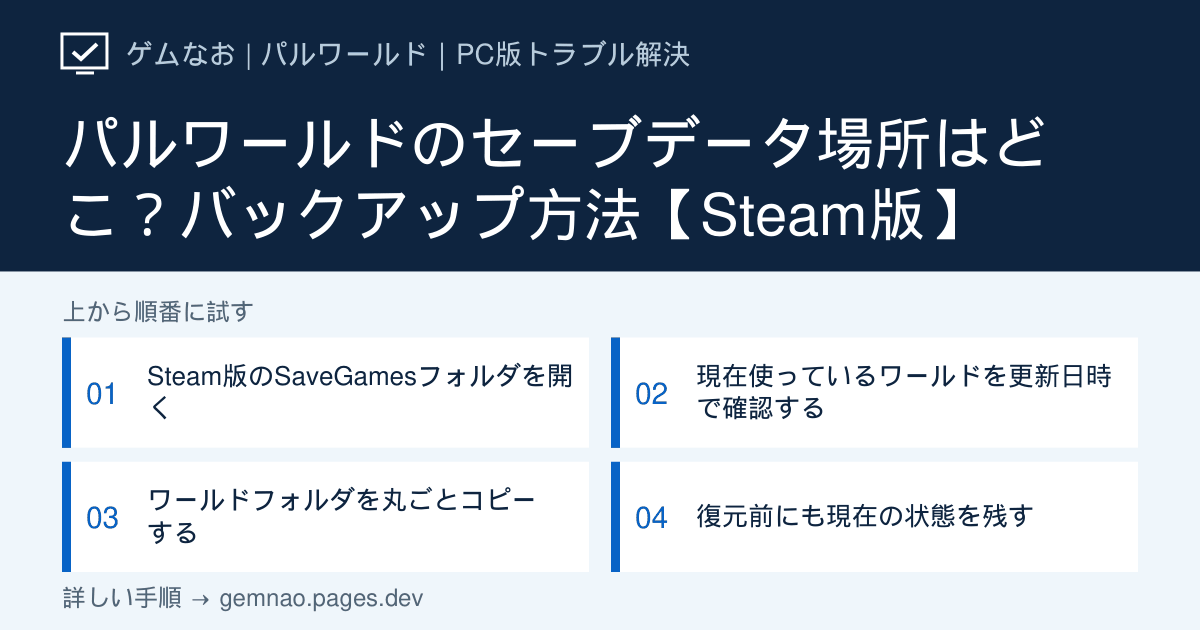
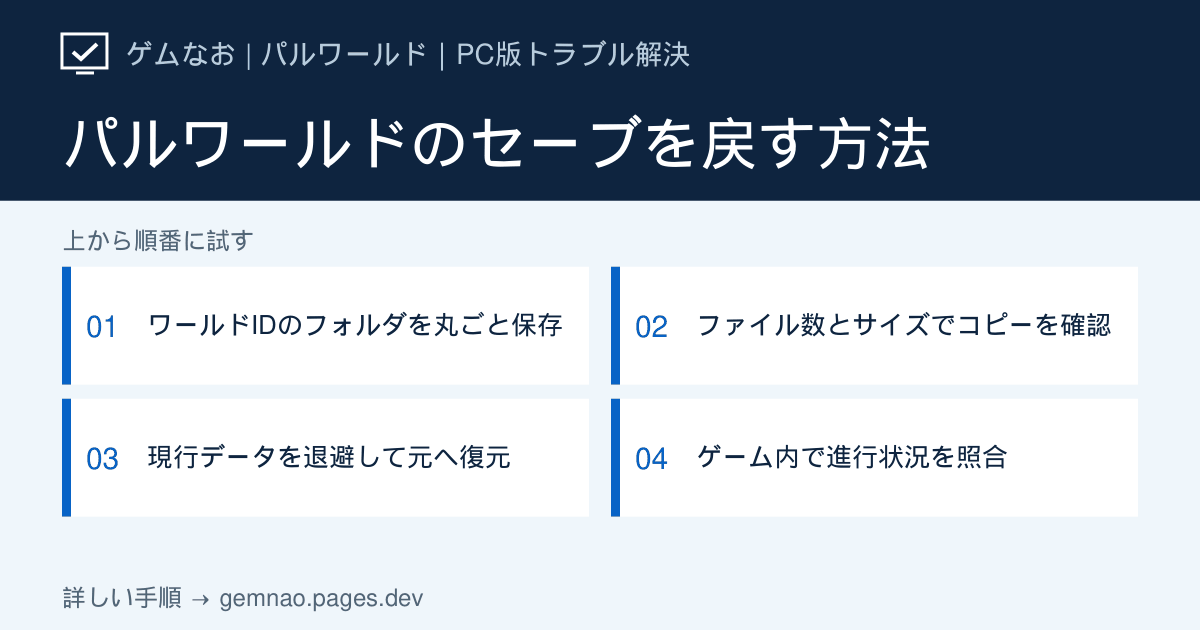
Add Palworld save backup verification and restore guide

diff --git a/lib/game-articles.ts b/lib/game-articles.ts
@@ -84,94 +84,197 @@ const originalGameArticles: GameArticle[] = [
     gameSlug: palworld.slug,
     slug: 'save-data',
     category: 'save',
-    title: 'パルワールドのセーブデータ場所はどこ？バックアップ方法【Steam版】',
-    shortTitle: 'Steam版セーブ場所',
+    title:
+      'パルワールドのセーブデータの場所｜バックアップの確認と復元手順【Steam版】',
+    shortTitle: 'セーブ場所・復元',
     symptom:
-      'Steam版パルワールドのSaveGamesフォルダを開きたい、1.0更新やMOD導入前にワールドをバックアップしたい人向けです。',
-    conclusion: `Steam版の保存先は「${palworld.savePath}」です。ゲーム終了後に使用中のワールドフォルダを丸ごと別の場所へコピーします。`,
+      'Steam版パルワールドのワールドをバックアップしたい、コピーが完了したか確かめたい、保存したワールドを元に戻したい人向けです。自分で作ったワールドが対象で、専用サーバーの管理データには適用しません。',
+    conclusion: `保存先は「${palworld.savePath}」の下にあるワールド別フォルダです。ゲームとSteamを終了してフォルダを丸ごと別の場所へコピーし、ファイル名・サイズ・ファイル数を元と照合します。復元時は現在のデータを退避し、元と同じID・階層へフォルダごと戻します。`,
     description:
-      'SaveGames内はSteam IDとワールドIDごとに分かれます。フォルダ名だけで判断せず、更新日時を見て現在遊んでいるワールドを確認します。',
-    checkedAt: '2026-09-09',
+      'SaveGames内はユーザーIDとワールドIDで分かれます。バックアップを置く親フォルダに日付を付け、IDでできたワールドフォルダ名は変えずに保存すると、復元先を間違えにくくなります。',
+    checkedAt: '2026-09-28',
+    targetVersion: 'WindowsのSteam版・自分のPCに保存されるワールド',
+    quickFacts: [
+      {
+        label: '保存場所を開く',
+        value: String.raw`%LOCALAPPDATA%\Pal\Saved\SaveGames`,
+        copy: true,
+      },
+      {
+        label: 'コピーする単位',
+        value: 'ユーザーIDの下にある、対象ワールドのIDフォルダ全体',
+      },
+      {
+        label: 'フォルダの並び方',
+        value: String.raw`SaveGames\<ユーザーID>\<ワールドID>\Level.sav`,
+      },
+      {
+        label: 'コピー成功の確認',
+        value: '両方のフォルダでファイル数・合計サイズとLevel.savなどのサイズを照合',
+      },
+      {
+        label: '復元する場所',
+        value: '元と同じユーザーIDの下へ、元と同じワールドIDの名前で戻す',
+      },
+    ],
+    diagnosis: [
+      {
+        symptom: 'セーブ場所や対象のワールドが分からない',
+        cause: 'ユーザーID・ワールドIDのフォルダ名だけでは判別できない',
+        stepId: 'identify-world',
+      },
+      {
+        symptom: 'コピーしたが、本当に保存できたか不安',
+        cause: 'コピー先に必要なファイルが揃っているか未確認',
+        stepId: 'verify-backup',
+      },
+      {
+        symptom: 'バックアップを元に戻したい',
+        cause: '復元前のデータとSteamクラウドの同期に注意が必要',
+        stepId: 'restore-world',
+      },
+      {
+        symptom: '復元後にワールドが出ない／最初から始まる',
+        cause: 'コピー先の階層・ワールドID・データの組が違う可能性',
+        stepId: 'check-restored',
+      },
+    ],
     symptoms: [
       { label: '保存場所を開きたい', target: 'open-save' },
-      { label: 'ワールドをバックアップしたい', target: 'backup-world' },
       { label: 'どのフォルダか分からない', target: 'identify-world' },
-      { label: '復元前に保全したい', target: 'prepare-restore' },
+      { label: 'ワールドをバックアップしたい', target: 'backup-world' },
+      { label: 'コピーできたか確認したい', target: 'verify-backup' },
+      { label: 'バックアップから復元したい', target: 'restore-world' },
+      { label: '復元後の結果を確認したい', target: 'check-restored' },
     ],
     steps: [
       {
         id: 'open-save',
         title: 'Steam版のSaveGamesフォルダを開く',
         summary: 'Windowsの環境変数を使えばユーザー名を入力せずに開けます。',
+        time: '約1分',
+        risk: 'low',
         actions: [
-          'パルワールドとSteamを終了する',
-          'WindowsキーとRを同時に押す',
-          String.raw`%LOCALAPPDATA%\Pal\Saved\SaveGames と入力してEnterを押す`,
-          'Steam IDと思われる数字のフォルダを開く',
+          'ゲームを終了し、Steamの同期が完了したことを確認してからSteamも終了する',
+          'Windows＋Rキーを押し、「%LOCALAPPDATA%\\Pal\\Saved\\SaveGames」と入力してEnterを押す',
+          '数字などで表示されるユーザーIDのフォルダを開き、さらに英数字のワールドIDのフォルダを探す',
         ],
-        note: `保存先の表記：${palworld.savePath}`,
+        note: 'SaveGamesが見つからない場合は、Windows版のSteamでプレイしているか確認してください。Xbox／Microsoft Store版や専用サーバーでは保存先が異なります。',
       },
       {
         id: 'identify-world',
-        title: '現在使っているワールドを更新日時で確認する',
+        title: '対象のワールドを最終プレイ日時で絞る',
         summary:
-          '複数のワールドがある場合に、誤ったデータを操作しないための確認です。',
+          '更新日時は目安です。迷ったまま別のワールドを上書きしないでください。',
+        time: '約2分',
+        risk: 'low',
         actions: [
-          'SaveGamesフォルダを詳細表示にする',
-          '「更新日時」で新しい順に並べる',
-          '最後にプレイした時刻と近いワールドフォルダを確認する',
-          '判断できない場合はSaveGames全体をバックアップする',
+          'ゲーム内のワールド選択画面で、対象のワールド名と最後に遊んだ日時を控え、ゲームを終了する',
+          'エクスプローラーでユーザーIDのフォルダを開き、ワールドIDの各フォルダを「詳細」表示にして更新日時を比べる',
+          '候補の中でLevel.sav、LevelMeta.sav、Playersフォルダなどがあるか確かめる。ファイル構成は更新によって異なるため、見えるファイルだけでワールド名を決めつけない',
+          '複数の候補から特定できない場合は、SaveGamesフォルダ全体を別の場所へコピーし、復元時もユーザーIDとワールドIDの対応を保管する',
         ],
       },
       {
         id: 'backup-world',
         title: 'ワールドフォルダを丸ごとコピーする',
         summary:
-          '個別のsavファイルではなく、関連ファイルをまとめて保存します。',
+          '日付は保管先の親フォルダに付け、ワールドIDのフォルダ名は変えません。',
+        time: '約2分',
+        risk: 'low',
         actions: [
-          '対象のワールドフォルダを選択する',
-          '別ドライブまたはドキュメント内のバックアップ先へコピーする',
-          'フォルダ名に日付と「更新前」などの目的を付ける',
-          'コピー先を開き、ファイルとPlayersフォルダが含まれるか確認する',
+          'ゲームとSteamが終了した状態で、対象のワールドIDのフォルダを右クリック→「コピー」する。分からなければSaveGamesフォルダ全体をコピーする',
+          'ドキュメントや外付けドライブに「Palworld_更新前_2026-09-28」のような保管用フォルダを作り、その中へ貼り付ける',
+          '元の「ユーザーID／ワールドID」をメモし、コピー先のワールドIDのフォルダ名は変更しない',
+          'エクスプローラーでコピー先を実際に開き、次のSTEPで元データと照合する',
         ],
+        note: '同じドライブだけに置いたコピーは、ドライブ故障時に同時に失われる可能性があります。重要なワールドは別ドライブにも保存してください。',
       },
       {
-        id: 'prepare-restore',
-        title: '復元前にも現在の状態を残す',
-        summary: '復元結果が違ったときに元へ戻せるようにします。',
+        id: 'verify-backup',
+        title: 'コピー先を開き、ファイル数とサイズを照合する',
+        summary:
+          '貼り付けた表示だけでは完了と判断せず、コピー元とコピー先を別々に開いて照合します。',
+        time: '約2分',
+        risk: 'low',
         actions: [
-          'パルワールドとSteamを終了する',
-          '現在のSaveGamesを別名でコピーする',
-          'Steam Cloudの同期状態を確認する',
-          'バックアップと現在データを混ぜず、フォルダ単位で管理する',
+          '元のワールドIDフォルダと、バックアップ先の同名フォルダをそれぞれ開く。両方にLevel.sav、LevelMeta.sav、Playersフォルダなど、元に存在した項目が揃っているか確認する',
+          '各フォルダを右クリック→「プロパティ」で「ファイル数」と「サイズ」を照合する。ディスクの形式により「ディスク上のサイズ」は異なるので比べない',
+          'Level.savと、元にLocalData.savがある場合はそのファイルも右クリック→「プロパティ」で、両方の「サイズ」を見比べる。コピー後に元のワールドを遊んで更新した場合は一致しないため、コピー時点の記録と比べる',
+          'フォルダの中身が空、ファイル数が少ない、サイズが異なる場合は成功扱いにせず、ゲームとSteamを閉じて元からコピーし直す',
         ],
+        note: 'サイズの一致は「コピーが揃っているか」の確認です。データをゲームが読み込める保証ではありません。実際に読み込めるかは、復元後のSTEPで確認します。',
+      },
+      {
+        id: 'restore-world',
+        title: '現在のワールドを退避してから、バックアップを元の場所へ戻す',
+        summary:
+          '同名ファイルだけを混ぜて上書きせず、元のワールドID・階層を再現します。',
+        time: '約5分',
+        risk: 'medium',
+        actions: [
+          'SteamのライブラリでPalworldを右クリック→「プロパティ」→「一般」を開き、そのゲームのSteamクラウド同期を一時的にオフにする',
+          'ゲームとSteamを終了し、元のワールドIDフォルダをドキュメントなどSaveGamesの外へ「復元前の状態」として丸ごとコピーする。コピーしたフォルダを開いて中身があることも確認する',
+          'コピー先とは別に「%LOCALAPPDATA%\\Pal\\Saved\\RestoreHold」のような一時フォルダを作り、元のワールドIDフォルダをそこへ移す。ユーザーIDのフォルダは残し、対象外のワールドには触れない',
+          '保存しておいたバックアップのワールドIDフォルダを、元と同じSaveGames／ユーザーIDの下へコピーする。フォルダ名は元のワールドIDのままにし、階層が二重になっていないか確認する',
+          'Steamを起動し、クラウド同期はまだオフのままPalworldを開いて、次のSTEPで復元結果を調べる',
+        ],
+        note: 'SaveGames全体を保管していた場合も、まず対応するユーザーIDと対象のワールドIDを確認してから、そのワールドフォルダだけを戻します。',
+      },
+      {
+        id: 'check-restored',
+        title: 'ワールド名・進行状況を確認してから同期を戻す',
+        summary:
+          'タイトル画面に出るだけでは復元完了ではありません。実際にロードして確かめます。',
+        time: '約3分',
+        risk: 'low',
+        actions: [
+          'ワールド選択画面で対象のワールドが表示されるか確認し、ロード後にキャラクター、拠点、パルなどバックアップ時点の進行状況を照合する',
+          'ワールドが見つからない、またはキャラクター作成から始まる場合は新規保存せずにゲームを閉じる。ユーザーID・ワールドIDの階層、コピー元にPlayersなどが揃っていたか、選んだ時点のバックアップかを再確認する',
+          '復元結果が違えばSteamとゲームを閉じ、復元したフォルダをSaveGamesの外へ移し、退避しておいた復元前のワールドIDフォルダを元のユーザーIDの下へ戻せる',
+          '復元した進行状況で遊べると確認できたらゲームを正常終了する。Steamクラウドを再びオンにする際は、ローカルとクラウドの不一致が出たら日時だけで即決せず、退避データを残したまま復元した側の進行状況を確認して選ぶ',
+        ],
+        note: 'Steamクラウドをオンにした後は別のPCで古いセーブを開く前に同期状態を確認してください。同期の選択に迷う場合はクラウドをオフのままにし、退避したフォルダを消さないでください。',
       },
     ],
+    avoid: [
+      'バックアップ用に保管するワールドIDフォルダの名前を書き換えない。日付は外側の保管用フォルダへ付ける',
+      '復元前のフォルダを削除してから貼り付けない。別の場所へ退避し、結果を見てから扱いを決める',
+      '違うユーザーIDや違うワールドIDの場所へ貼り付けたり、複数時点のsavファイルを混ぜたりしない',
+    ],
     cautions: [
-      'プレイ中やSteam Cloud同期中にセーブデータを上書きしないでください。',
-      'Steam版とXbox／Microsoft Store版は保存形式と場所が異なるため、この手順をそのまま流用しないでください。',
+      'この操作は自分のPCに保存されるSteam版ワールドの例です。専用サーバー、公式サーバー、Xbox／Microsoft Store版には適用しません。',
+      'プレイ中やクラウド同期中にはセーブデータを置き換えないでください。',
     ],
     faqs: [
       {
-        question: 'Steam版パルワールドのセーブデータはどこですか？',
+        question: 'コピー先にLevel.savがあればバックアップは成功ですか？',
         answer:
-          'Windowsでは%LOCALAPPDATA%\\Pal\\Saved\\SaveGames内です。その下にSteam IDとワールドごとのフォルダがあります。',
+          'それだけでは不足です。元と同じワールドIDのフォルダに、元にあったPlayersフォルダや他のファイルが揃い、ファイル数・合計サイズが一致するか確認してください。サイズが合っても読み込みの保証にはならず、復元後にゲーム内で進行状況を確かめます。',
       },
       {
-        question: 'どのワールドフォルダをコピーすればいいですか？',
+        question: 'バックアップのワールドIDフォルダに日付を付けて改名してもいいですか？',
         answer:
-          '最後にプレイした時刻と更新日時が近いフォルダを確認します。判別できない場合はSaveGamesフォルダ全体をコピーしてください。',
+          '保管中は外側の親フォルダに日付を付け、内側のワールドID名はそのままにしてください。戻す際には元と同じユーザーIDの下に、元と同じワールドID名で置きます。',
       },
       {
-        question: 'バックアップはLevel.savだけで大丈夫ですか？',
+        question: 'クラウド同期を再開したら「ローカル」「クラウド」の選択が出ました',
         answer:
-          'ワールドとプレイヤー情報の組み合わせを保つため、個別ファイルではなく対象ワールドのフォルダ全体をコピーしてください。',
+          '両方の日時と、直前にゲーム内で確認した進行状況を照合してください。復元したローカル側が目的の状態だと分かるまで選択せず、退避したセーブを保持します。判断がつかなければ同期をオフにしてSteam公式のクラウド案内を確認してください。',
       },
     ],
     sources: [
       {
         label: 'PCGamingWiki（Steam版保存場所）',
         url: 'https://www.pcgamingwiki.com/wiki/Palworld',
+      },
+      {
+        label: 'Steam公式：Palworld（Steamクラウド対応）',
+        url: 'https://store.steampowered.com/app/1623730/Palworld/',
+      },
+      {
+        label: 'Steam公式サポート：ゲームごとのクラウド同期の切り替え',
+        url: 'https://help.steampowered.com/ja/faqs/view/68D2-35AB-09A9-7678',
       },
     ],
     related: [
@@ -181,9 +284,16 @@ const originalGameArticles: GameArticle[] = [
       'dedicated-server-settings',
     ],
     seoTitle:
-      'パルワールドのセーブデータ場所はどこ？バックアップ方法【Steam版】',
+      'パルワールドのセーブデータ保存先｜バックアップ確認・復元方法【Steam版】',
     metaDescription:
-      'Steam版パルワールドのセーブデータ場所を開く方法を解説。SaveGames内のワールドを見分け、1.0更新やMOD導入前に安全にバックアップする手順です。',
+      'Steam版パルワールドのセーブデータ保存先を開き、コピー後のファイル数・サイズを照合する方法を解説。ワールドIDを保ったバックアップ、Steamクラウドを一時停止した復元、ゲーム内での確認まで。',
+    ogTitle: 'パルワールドのセーブを戻す方法',
+    ogSteps: [
+      'ワールドIDのフォルダを丸ごと保存',
+      'ファイル数とサイズでコピーを確認',
+      '現行データを退避して元へ復元',
+      'ゲーム内で進行状況を照合',
+    ],
   },
   {
     gameSlug: palworld.slug,

diff --git a/lib/og-image-manifest.ts b/lib/og-image-manifest.ts
@@ -65,12 +65,12 @@ export const ogImageManifest: Record<string, string> = {
   "/games/onimusha-way-of-the-sword/low-fps": "1a390e63",
   "/games/onimusha-way-of-the-sword/not-launching": "f517c8e3",
   "/games/onimusha-way-of-the-sword/shader-cache": "14861f9f",
-  "/games/palworld": "7a118fcc",
+  "/games/palworld": "5de18a32",
   "/games/palworld/dedicated-server-backup": "e52228b8",
   "/games/palworld/dedicated-server-port": "47029ddc",
   "/games/palworld/dedicated-server-settings": "574fb782",
   "/games/palworld/not-launching": "266d1cc9",
-  "/games/palworld/save-data": "ad53b5a4",
+  "/games/palworld/save-data": "15163b8e",
   "/games/palworld/system-requirements": "61cda543",
   "/games/star-wars-zero-company": "86c17651",
   "/games/star-wars-zero-company/black-screen": "ac19e94d",
